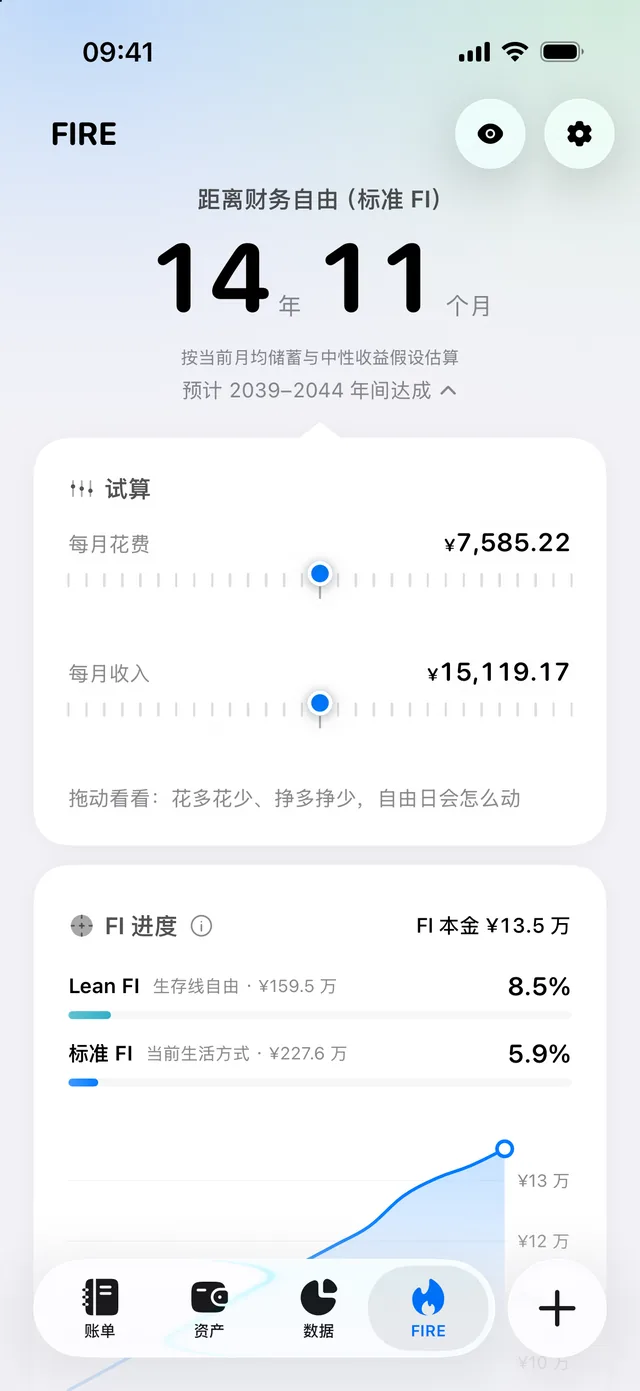
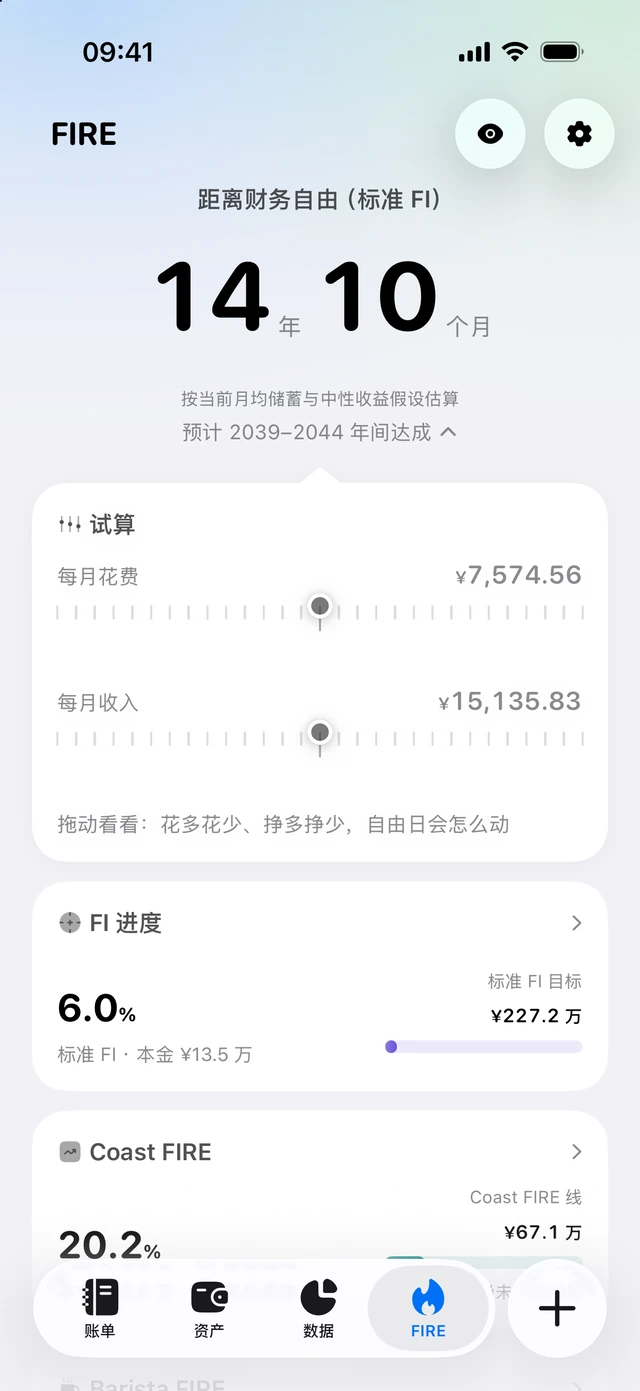
Refresh all website screenshots from Coast 1.1

diff --git a/src/pages/Guide.tsx b/src/pages/Guide.tsx
@@ -253,7 +253,7 @@ const GROUPS: Group[] = [
           { p: ["v1.1 新增个人资产晴雨表：在资产页查看各项财务指标，点开了解数值与计算依据。数据不足会显示待评估，不会当成风险结果；卡头可切换天气样式。也可以把晴雨表放到桌面小组件。", "v1.1 adds Personal Asset Weather: review financial metrics on Assets and open them for values and calculation details. Missing data is shown as unrated rather than a risk result. Change weather styles from the card header, or add an asset weather widget to your Home Screen."] },
           { p: ["转账时先看转出账户的可用余额，点「全部」带入金额；有手续费或跨币种转账时，核对手续费与实际到账金额后再保存。组合付款可以把同一笔账分配给多个账户。", "When transferring, check the source account's available balance and tap All to fill the amount. Check fees and the actual amount received for cross-currency transfers before saving. Combined payments allocate one entry across multiple accounts."] },
           { fig: F.ReconcileFlow },
-          { where: [[["资产页顶部", "Top of the Assets tab"], ["净资产、资产变化、资产组成三种看法", "Net worth, changes and breakdown"]], [["资产 → ＋ → 批量对账", "Assets → + → Batch Reconcile"], ["一次填完所有账户的真实余额", "Enter all real balances at once"]], [["FIRE 页 · FI 进度卡", "FIRE tab · FI Progress"], ["「FI 本金」就是这个数，两页同源", "\"FI principal\" is the same number"]]] },
+          { where: [[["资产页顶部", "Top of the Assets tab"], ["净资产与走势，点开查看资产变化和组成", "Net worth and trend; open for changes and breakdown"]], [["资产 → 右上角账户菜单 → 批量对账", "Assets → account menu at top right → Batch Reconcile"], ["一次填完所有账户的真实余额", "Enter all real balances at once"]], [["FIRE 页 · FI 进度卡", "FIRE tab · FI Progress"], ["「FI 本金」就是这个数，两页同源", "\"FI principal\" is the same number"]]] },
           { related: ["diff-assets", "assets", "c-countdown"] },
         ],
       },
@@ -526,11 +526,11 @@ const GROUPS: Group[] = [
         title: ["资产页：每月对一次账", "Assets: reconcile monthly"],
         lead: ["FIRE 页的倒计时准不准，取决于净资产准不准。好在只需要每月一分钟。", "The countdown is only as good as your net worth. Luckily that takes a minute a month."],
         blocks: [
-          { img: "assets", cap: ["资产页：净资产、资产变化、资产组成三种看法", "Assets: net worth, changes and breakdown"] },
+          { img: "assets", cap: ["资产页：净资产走势、资产晴雨表与账户列表", "Assets: net worth trend, financial weather and accounts"] },
           { p: ["v1.1 新增个人资产晴雨表：在资产页查看各项财务指标，点开了解数值与计算依据。数据不足会显示待评估，不会当成风险结果；卡头可切换天气样式。也可以把晴雨表放到桌面小组件。", "v1.1 adds Personal Asset Weather: review financial metrics on Assets and open them for values and calculation details. Missing data is shown as unrated rather than a risk result. Change weather styles from the card header, or add an asset weather widget to your Home Screen."] },
           { p: ["转账时先看转出账户的可用余额，点「全部」带入金额；有手续费或跨币种转账时，核对手续费与实际到账金额后再保存。组合付款可以把同一笔账分配给多个账户。", "When transferring, check the source account's available balance and tap All to fill the amount. Check fees and the actual amount received for cross-currency transfers before saving. Combined payments allocate one entry across multiple accounts."] },
           { fig: F.ReconcileFlow },
-          { tip: ["对账入口在「资产 → ＋ → 批量对账」。合并记账、漏记几笔都没关系，填一遍真实余额，差额自动记为校准。", "Reconcile from Assets → + → Batch Reconcile. Merged or missed entries don't matter — enter real balances and the gap is recorded as a calibration."] },
+          { tip: ["对账入口在「资产 → 右上角账户菜单 → 批量对账」。合并记账、漏记几笔都没关系，填一遍真实余额，差额自动记为校准。", "Reconcile from Assets → account menu at top right → Batch Reconcile. Merged or missed entries don't matter — enter real balances and the gap is recorded as a calibration."] },
           { related: ["c-net-worth", "diff-assets"] },
         ],
       },

diff --git a/src/pages/Home.tsx b/src/pages/Home.tsx
@@ -121,7 +121,7 @@ function Hero() {
 
 /* ---------- 功能四屏：桌面端 pin 住整段，滚动切屏 ---------- */
 const FEATURES = [
-  { img: "fire-pro", zh: ["自由倒计时", "首页最大的数字不是余额，是「还有 14 年 11 个月」。拖动试算滑杆，它实时重算。"], en: ["Freedom countdown", "The biggest number isn't a balance. It's \"14 years, 11 months to go,\" and it moves as you drag the sliders."] },
+  { img: "fire-pro", zh: ["自由倒计时", "FIRE 页直接显示距离财务自由还有多久。展开试算，调整收入与支出，倒计时实时重算。"], en: ["Freedom countdown", "The FIRE tab shows how long until financial freedom. Expand What-If and adjust income or spending to recalculate the countdown."] },
   { img: "ledger", zh: ["复杂的钱也记得清", "AA、报销、分次退款、组合支付、分期、周期账单，都有自己的位置。"], en: ["The messy stuff, handled", "Splits, reimbursements, partial refunds, installments, recurring bills. Each has a place."] },
   { img: "assets", zh: ["资产看趋势", "现金、投资、不动产、负债分开算。新增资产晴雨表，结合持仓、组合付款与余额校准，看清财务状况。"], en: ["Net worth as a trend", "Cash, investments, property and debt, with asset weather, holdings, combined payments and balance reconciliation."] },
   { img: "budget", zh: ["预算看节奏", "月中就知道会不会超。建议额度按你真实花过的来，不是拍脑袋。"], en: ["Budget by pace", "Know mid-month if you'll go over. Limits from what you actually spent, not a guess."] },
@@ -161,10 +161,10 @@ function Features() {
             })}
           </ol>
         </div>
-        <div className="relative mx-auto h-[600px] w-[304px]">
+        <div className="relative mx-auto h-[640px] w-[304px]">
           {FEATURES.map((f, i) => (
             <div key={f.img} className="absolute inset-0 transition-opacity duration-500" style={{ opacity: i === active ? 1 : 0 }} aria-hidden={i !== active}>
-              <Device src={screen(f.img, lang)} width={280} />
+              <Device src={screen(f.img, lang)} alt={lang === "zh" ? f.zh[0] : f.en[0]} width={280} />
             </div>
           ))}
         </div>
@@ -447,12 +447,12 @@ function More() {
 
 /* ---------- 截图带：桌面端竖向滚动驱动横向平移 ---------- */
 const SHOTS = [
-  ["fire-pro", "FIRE 页 · Coast FIRE 线", "FIRE · Coast FIRE line"],
+  ["fire-pro", "FIRE 页 · 收支试算", "FIRE · What-If"],
   ["budget", "预算 · 消费节奏", "Budget · pace"],
   ["recurring", "周期账单识别", "Recurring detection"],
   ["ledger", "账单首页", "Ledger"],
   ["templates", "记账模板", "Templates"],
-  ["assets", "资产组成", "Asset composition"],
+  ["assets", "资产概览与晴雨表", "Assets & financial weather"],
 ]
 function Shots() {
   const { lang, t } = useLang()
@@ -477,7 +477,7 @@ function Shots() {
         <div ref={track} className="no-scrollbar mt-8 flex gap-8 overflow-x-auto px-6 pb-4 md:overflow-visible md:px-10">
           {SHOTS.map(([img, zh, en]) => (
             <figure key={img} className="w-[220px] shrink-0">
-              <Device src={screen(img, lang)} width={200} />
+              <Device src={screen(img, lang)} alt={lang === "zh" ? zh : en} width={200} />
               <figcaption className="tag mt-4 text-center">{lang === "zh" ? zh : en}</figcaption>
             </figure>
           ))}

diff --git a/src/lib/i18n.tsx b/src/lib/i18n.tsx
@@ -40,7 +40,7 @@ export function useLang() {
 export const BASE = import.meta.env.BASE_URL
 export const asset = (name: string) => `${BASE}assets/${name}`
 /** 手机截图按语言分两套：screen-<name>.zh.webp / .en.webp */
-export const screen = (name: string, lang: Lang) => `${BASE}assets/screen-${name}.${lang}.webp`
+export const screen = (name: string, lang: Lang) => `${BASE}assets/screen-${name}.${lang}.webp?v=1.1-20261019`
 export const APP_STORE = "https://apps.apple.com/cn/app/id6793885422"
 export const MAIL = "hi@thisleon.com"
 /** 联系方式：首页「联系我」和页脚共用这一份，改一处即可 */

diff --git a/docs/screenshots.md b/docs/screenshots.md
@@ -1,0 +1,30 @@
+# App screenshots
+
+Updated 2026-10-19 from Coast **1.1.0 (1201)**, App source commit
+`8cdc4c1d` (current checkout, including the existing localization working copy).
+Captured on a dedicated iPhone 17 Pro / iOS 26.5 simulator from a fresh build.
+
+All images are real App screenshots, with the built-in `--seed-showcase`
+example ledger, Pro enabled, light appearance and 9:41 status bar. iCloud was
+turned off on the dedicated simulator. Each language was seeded separately
+from a fresh installation so account and entry names match the UI language.
+
+| Asset | App screen / state | Website placement |
+| --- | --- | --- |
+| `screen-fire` | FIRE, What-If collapsed | Home hero; guide: FIRE cards |
+| `screen-fire-pro` | FIRE, What-If expanded | Home features and screenshot gallery |
+| `screen-ledger` | Entries, current month | Home features/gallery; guide: Entries |
+| `screen-assets` | Assets overview, asset weather and account groups | Home features/gallery; guide: Assets |
+| `screen-budget` | Budget detail and spending pace | Home features/gallery |
+| `screen-recurring` | Discover recurring entries | Home gallery |
+| `screen-templates` | Template picker | Home gallery; guide: adding entries |
+
+Every asset has `.zh.webp` and `.en.webp` variants, 640 px wide, resized
+without cropping or compositing. Paths are shared through `screen()` in
+`src/lib/i18n.tsx`; its version query prevents old browser-cached images from
+being shown after replacement. Update that version whenever the images change.
+
+Keep screenshot captions in both languages aligned with the actual state:
+`fire-pro` shows What-If rather than a dedicated Coast FIRE detail page;
+Assets now shows an overview and weather metrics, with breakdown inside the
+overview detail. Avoid fixed countdown values in screenshot descriptions.
